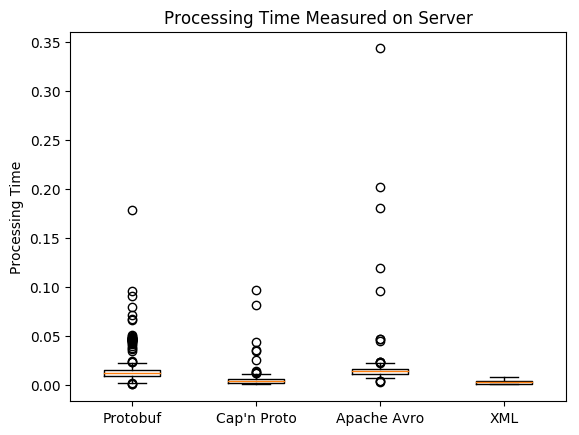
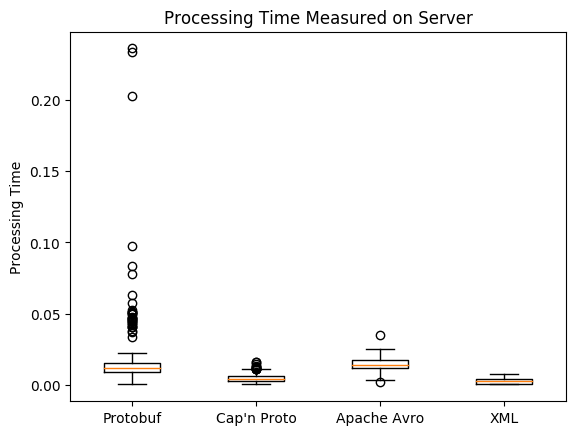
drawings and changes

diff --git a/createGraphs.py b/createGraphs.py
@@ -55,35 +55,35 @@ def draw_scatter_message_length(x1, x2, x3, x4, y, name, title, x_label, y_label
 
 	fig1, ax1 = plt.subplots()
 
-	ax1.scatter(x_protobuf, y_protobuf, c='g')
-	ax1.scatter(x_capnp, y_capnp, color='b')
-	ax1.scatter(x_avro, y_avro, color='r')
-	ax1.scatter(x_xml, y_xml, color='k')
+	proto = ax1.scatter(x_protobuf, y_protobuf, c='g')
+	capnp = ax1.scatter(x_capnp, y_capnp, color='b')
+	avro = ax1.scatter(x_avro, y_avro, color='r')
+	xml = ax1.scatter(x_xml, y_xml, color='k')
 
 	#plt.legend((y_protobuf, y_capnp, y_avro, y_xml), ('Protobuf', 'Cap\'n Proto', 'Apache Avro', 'XML'), scatterpoints=1)
 
-	ax1.ylabel(y_label)
-	ax1.xlabel(x_label)
-	ax1.legend(*scatter.legend_elements())
+	ax1.set_ylabel(y_label)
+	ax1.set_xlabel(x_label)
+	ax1.legend((proto, capnp, avro, xml), ('Protobuf', 'Cap\'n Proto', 'Apache Avro', 'XML'))
 	title = title + ' Measured on ' + str(machine).capitalize()
 	if int(print_to_file) == 1:
 		title = title + ' (Data Written to Disk)'
-	ax1.title(str(title))
+	ax1.set_title(str(title))
 	#plt.xticklabels(['Protobuf', 'Cap\'n Proto', 'Apache Avro', 'XML'])
 
 	fig1.savefig('eval/scatter_'+str(title)+'_'+str(machine)+'_'+str(number_of_people)+'_'+str(number_of_messages)+'_'+str(print_to_file), bbox_inches='tight')
 
-def draw_scatter(x, y, name, title, x_label, y_label):
+def draw_scatter(x, scale_x, y, scale_y, name, title, x_label, y_label):
 	
-	x_protobuf = np.asarray(x[0])
-	x_capnp = np.asarray(x[1])
-	x_avro = np.asarray(x[2])
-	x_xml = np.asarray(x[3])
+	x_protobuf = np.asarray(x[0])-scale_x[0]
+	x_capnp = np.asarray(x[1])-scale_x[1]
+	x_avro = np.asarray(x[2])-scale_x[1]
+	x_xml = np.asarray(x[3])-scale_x[1]
 
-	y_protobuf = np.asarray(y[0])
-	y_capnp = np.asarray(y[1])
-	y_avro = np.asarray(y[2])
-	y_xml = np.asarray(y[3])
+	y_protobuf = np.asarray(y[0])-scale_y[0]
+	y_capnp = np.asarray(y[1])-scale_y[1]
+	y_avro = np.asarray(y[2])-scale_y[2]
+	y_xml = np.asarray(y[3])-scale_y[3]
 
 	#print('len prot ', len(x_protobuf), 'len y ', len(y_protobuf))
 
@@ -94,25 +94,25 @@ def draw_scatter(x, y, name, title, x_label, y_label):
 
 	fig2, ax2 = plt.subplots()
 
-	ax2.scatter(x_protobuf, y_protobuf, c='g')
-	ax2.scatter(x_capnp, y_capnp, color='b')
-	ax2.scatter(x_avro, y_avro, color='r')
-	ax2.scatter(x_xml, y_xml, color='k')
+	proto = ax2.scatter(x_protobuf, y_protobuf, c='g')
+	capnp = ax2.scatter(x_capnp, y_capnp, color='b')
+	avro = ax2.scatter(x_avro, y_avro, color='r')
+	xml = ax2.scatter(x_xml, y_xml, color='k')
 
 	#plt.legend((y_protobuf, y_capnp, y_avro, y_xml), ('Protobuf', 'Cap\'n Proto', 'Apache Avro', 'XML'), scatterpoints=1)
 
-	ax2.ylabel(y_label)
-	ax2.xlabel(x_label)
-	ax2.legend(*scatter.legend_elements())
+	ax2.set_ylabel(y_label)
+	ax2.set_xlabel(x_label)
+	ax2.legend((proto, capnp, avro, xml), ('Protobuf', 'Cap\'n Proto', 'Apache Avro', 'XML'))
 	title = title + ' Measured on ' + str(machine).capitalize()
 	if int(print_to_file) == 1:
 		title = title + ' (Data Written to Disk)'
-	ax2.title(str(title))
+	ax2.set_title(str(title))
 	#plt.xticklabels(['Protobuf', 'Cap\'n Proto', 'Apache Avro', 'XML'])
 
 	fig2.savefig('eval/scatter_'+str(title)+'_'+str(machine)+'_'+str(number_of_people)+'_'+str(number_of_messages)+'_'+str(print_to_file), bbox_inches='tight')
 
-def draw_scatter_disk(x, start_value_x, bytes y, start_value_y, name, title, x_label, y_label):
+def draw_scatter_disk(x, start_value_x, y, start_value_y, name, title, x_label, y_label):
 	
 	x_protobuf = np.asarray(x[0])-start_value_x[0]
 	x_capnp = np.asarray(x[1])-start_value_x[1]
@@ -124,10 +124,10 @@ def draw_scatter_disk(x, start_value_x, bytes y, start_value_y, name, title, x_l
 	y_avro = np.asarray(y[2])-start_value_y[2]
 	y_xml = np.asarray(y[3])-start_value_y[3]
 
-	print('len prot ', len(x_protobuf), 'len y ', len(y_protobuf))
-	print('len prot ', len(x_xml), 'len y ', len(y_xml))
-	print(y_xml)
-	print(x_xml)
+	#print('len prot ', len(x_protobuf), 'len y ', len(y_protobuf))
+	#print('len prot ', len(x_xml), 'len y ', len(y_xml))
+	#print(y_xml)
+	#print(x_xml)
 
 	machine = name.split('_')[0]
 	number_of_people = name.split('_')[2]
@@ -136,30 +136,31 @@ def draw_scatter_disk(x, start_value_x, bytes y, start_value_y, name, title, x_l
 
 	fig3, ax3 = plt.subplots()
 
-	ax3.scatter(x_protobuf, y_protobuf, c='g')
-	ax3.scatter(x_capnp, y_capnp, color='b')
-	ax3.scatter(x_avro, y_avro, color='r')
-	ax3.scatter(x_xml, y_xml, color='k')
+	proto = ax3.scatter(x_protobuf, y_protobuf, c='g')
+	capnp = ax3.scatter(x_capnp, y_capnp, color='b')
+	avro = ax3.scatter(x_avro, y_avro, color='r')
+	xml = ax3.scatter(x_xml, y_xml, color='k')
 
 	#plt.legend((y_protobuf, y_capnp, y_avro, y_xml), ('Protobuf', 'Cap\'n Proto', 'Apache Avro', 'XML'), scatterpoints=1)
 
-	ax3.ylabel(y_label)
-	ax3.xlabel(x_label)
-	ax3.legend(*scatter.legend_elements())
+	ax3.set_ylabel(y_label)
+	ax3.set_xlabel(x_label)
+	ax3.legend((proto, capnp, avro, xml), ('Protobuf', 'Cap\'n Proto', 'Apache Avro', 'XML'))
 	title = title + ' Measured on ' + str(machine).capitalize()
 	if int(print_to_file) == 1:
-		title = title + ' (Data Written to Disk)'
-	ax3.title(str(title))
+		filetitle = title +'_disk'
+		#title = title + ' (Data Written to Disk)'
+	ax3.set_title(str(title))
 	#plt.xticklabels(['Protobuf', 'Cap\'n Proto', 'Apache Avro', 'XML'])
 
-	fig3.savefig('eval/scatter_'+str(title)+'_'+str(machine)+'_'+str(number_of_people)+'_'+str(number_of_messages)+'_'+str(print_to_file), bbox_inches='tight')
+	fig3.savefig('eval/scatter_'+str(filetitle)+'_'+str(machine)+'_'+str(number_of_people)+'_'+str(number_of_messages)+'_'+str(print_to_file)+'.png', bbox_inches='tight')
 
-draw_scatter_mul_y(x, y1, y2, y3, y4, name, title, x_label, y_label)
+def draw_scatter_mul_y(x,discount, y1, y2, y3, y4, name, title, x_label, y_label):
 	
-	x_protobuf = np.asarray(x[0])
-	x_capnp = np.asarray(x[1])
-	x_avro = np.asarray(x[2])
-	x_xml = np.asarray(x[3])
+	x_protobuf = np.asarray(x[0])-discount[0]
+	x_capnp = np.asarray(x[1])-discount[1]
+	x_avro = np.asarray(x[2])-discount[2]
+	x_xml = np.asarray(x[3])-discount[3]
 
 	y_protobuf = np.asarray(y1)
 	y_capnp = np.asarray(y2)
@@ -173,20 +174,20 @@ draw_scatter_mul_y(x, y1, y2, y3, y4, name, title, x_label, y_label)
 
 	fig4, ax4 = plt.subplots()
 
-	ax4.scatter(x_protobuf, y_protobuf, c='g')
-	ax4.scatter(x_capnp, y_capnp, color='b')
-	ax4.scatter(x_avro, y_avro, color='r')
-	ax4.scatter(x_xml, y_xml, color='k')
+	proto = ax4.scatter(x_protobuf, y_protobuf, c='g')
+	capnp = ax4.scatter(x_capnp, y_capnp, color='b')
+	avro = ax4.scatter(x_avro, y_avro, color='r')
+	xml = ax4.scatter(x_xml, y_xml, color='k')
 
 	#plt.legend((y_protobuf, y_capnp, y_avro, y_xml), ('Protobuf', 'Cap\'n Proto', 'Apache Avro', 'XML'), scatterpoints=1)
 
-	ax4.ylabel(y_label)
-	ax4.xlabel(x_label)
-	ax4.legend(*scatter.legend_elements())
+	ax4.set_ylabel(y_label)
+	ax4.set_xlabel(x_label)
+	ax4.legend((proto, capnp, avro, xml), ('Protobuf', 'Cap\'n Proto', 'Apache Avro', 'XML'))
 	title = title + ' Measured on ' + str(machine).capitalize()
-	if int(print_to_file) == 1:
-		title = title + ' (Data Written to Disk)'
-	ax4.title(str(title))
+	#if int(print_to_file) == 1:
+		#title = title + ' (Data Written to Disk)'
+	ax4.set_title(str(title))
 	#plt.xticklabels(['Protobuf', 'Cap\'n Proto', 'Apache Avro', 'XML'])
 
 	fig4.savefig('eval/scatter_'+str(title)+'_'+str(machine)+'_'+str(number_of_people)+'_'+str(number_of_messages)+'_'+str(print_to_file), bbox_inches='tight')
@@ -224,24 +225,27 @@ def draw_line_chart(x, y, name, title, x_label, y_label):
 	#ax.set_xticklabels(['Protobuf', 'Cap\'n Proto', 'Apache Avro', 'XML'])
 	fig.savefig('eval/line_'+str(title)+'_'+str(machine)+'_'+str(number_of_people)+'_'+str(number_of_messages)+'_'+str(print_to_file), bbox_inches='tight')
 '''
-def draw_boxplot(values, start_value_bytes_rec, name, title):
+def draw_boxplot_xml(values, start_value_bytes_rec, name, title):
 
 	#print(values)
 	data_to_plot = []
 	val = []
-	for i in range(0, len(values):
+	for i in range(0, len(values)):
 		val.append(values[i])
+		print(values[i])
 		if (i + 1)%10 == 0 :
+			print(val)
 			data_to_plot.append(val)
 			val = []
-	
+	'''
 	protobuf = np.asarray(values[0])-start_value_bytes_rec[0]
 	capnp = np.asarray(values[1])-start_value_bytes_rec[0]
 	avro = np.asarray(values[2])-start_value_bytes_rec[0]
 	xml = np.asarray(values[3])-start_value_bytes_rec[0]
 
 	data_to_plot = [protobuf, capnp, avro, xml]
-
+	'''
+	print(data_to_plot)
 	machine = name.split('_')[0]
 	number_of_people = name.split('_')[2]
 	number_of_messages = name.split('_')[3]
@@ -251,12 +255,13 @@ def draw_boxplot(values, start_value_bytes_rec, name, title):
 
 	#ax = fig.add_subplot(111)
 	ax5.boxplot(data_to_plot)
-	ax5.ylabel(title)
+	ax5.set_ylabel(title)
 	title = title + ' Measured on ' + str(machine).capitalize()
 	if print_to_file == 1:
 		title = title + ' (data written to disk)'
-	ax5.title(str(title))
-	ax5.xticks([1,2,3,4,5,6,7,8,9,10,11,12,13,14,15,16,17,18,19,20,21,22,23,24,25],['224', '410', '596', '782', '968','1154','1340','1526','1712','1898','2084','2270','2456','2642','2828','3014','3200','3386','3572','3758','3944','4130','4316','4502','4688'])
+	ax5.set_title(str(title))
+	ax5.set_xticks([1,2,3,4,5,6,7,8,9,10,11,12,13,14,15,16,17,18,19,20,21,22,23,24,25])
+	ax5.set_xticklabels(['224', '410', '596', '782', '968','1154','1340','1526','1712','1898','2084','2270','2456','2642','2828','3014','3200','3386','3572','3758','3944','4130','4316','4502','4688'])
 	fig5.savefig('eval/box_'+str(title)+'_'+str(machine)+'_'+str(number_of_people)+'_'+str(number_of_messages)+'_'+str(print_to_file), bbox_inches='tight')
 
 
@@ -281,12 +286,13 @@ def draw_boxplot(values, start_value_bytes_rec, name, title):
 
 	#ax = fig.add_subplot(111)
 	ax6.boxplot(data_to_plot)
-	ax6.ylabel(title)
+	ax6.set_ylabel(title)
 	title = title + ' Measured on ' + str(machine).capitalize()
-	if print_to_file == 1:
+	if int(print_to_file) == 1:
 		title = title + ' (data written to disk)'
-	ax6.title(str(title))
-	ax6.xticks([1,2,3,4],['Protobuf', 'Cap\'n Proto', 'Apache Avro', 'XML'])
+	ax6.set_title(str(title))
+	ax6.set_xticks([1,2,3,4])
+	ax6.set_xticklabels(['Protobuf', 'Cap\'n Proto', 'Apache Avro', 'XML'])
 	fig6.savefig('eval/box_'+str(title)+'_'+str(machine)+'_'+str(number_of_people)+'_'+str(number_of_messages)+'_'+str(print_to_file), bbox_inches='tight')
 
 
@@ -322,7 +328,7 @@ def main():
 
 	for path in paths:
 		identify_format = path.split('/')[1].split('_')[1]
-		print(identify_format)
+		#print(identify_format)
 
 		with open(str(path), 'r') as f:
 			Lines = [line.rstrip('\n') for line in f]
@@ -423,7 +429,7 @@ def main():
 				for value in line.split(':')[1].lstrip('[').rstrip(']').split(','):
 					if len(value) != 0:
 						values.append(float(value))
-						print(value)
+						#print(value)
 				bytes_sent.append(values)
 			elif line.split(':')[0] == 'packets_sent':
 				values = []
@@ -469,20 +475,20 @@ def main():
 		draw_scatter_message_length(message_length_proto, message_length_capnp, message_length_avro, message_length_xml, memory, paths[0].split('/')[1], 'Memory Utilization', 'Message Size', 'Memory Utilization in %')
 
 		if int(print_to_file) == 1:
-			draw_scatter_disk(write_time, [0,0,0,0], write_bytes, start_value_disk, paths[0].split('/')[1], 'Bytes Written', 'Time to Write to Disk in ms', 'Data Written in Bytes')
-			draw_scatter_disk(write_bytes, start_value_disk, bytes_recv, start_value_bytes_rec, paths[0].split('/')[1], 'Data Received vs. Data Written', 'Data Received vs. Data Written', 'Data Received in Bytes')
-			draw_scatter(write_time, [0,0,0,0], bytes_recv, start_value_bytes_rec, paths[0].split('/')[1], 'Time to Write Bytes', 'Time to Write Bytes in ms', 'Bytes Received')
-			draw_scatter_mul_y(write_time, message_length_proto, message_length_capnp, message_length_avro, message_length_xml, paths[0].split('/')[1], 'Time to Write Message Length', 'Time to Write Message in ms', 'Message Length in Bytes')
+			draw_scatter_disk(write_time, [write_time[0][0],write_time[1][0],write_time[2][0],write_time[3][0]], write_bytes, start_value_disk, paths[0].split('/')[1], 'Bytes Written', 'Time to Write to Disk in ms', 'Data Written in Bytes')
+			draw_scatter_disk(write_bytes, start_value_disk, bytes_recv, start_value_bytes_rec, paths[0].split('/')[1], 'Data Received vs. Data Writtento Disk', 'Data Written to Disk in Bytes', 'Data Received in Bytes')
+			draw_scatter_disk(write_time, [write_time[0][0],write_time[1][0],write_time[2][0],write_time[3][0]], bytes_recv, start_value_bytes_rec, paths[0].split('/')[1], 'Time to Write Received Bytes', 'Time to Write Bytes in ms', 'Bytes Received')
+			draw_scatter_mul_y(write_time, [write_time[0][0],write_time[1][0],write_time[2][0],write_time[3][0]], message_length_proto, message_length_capnp, message_length_avro, message_length_xml, paths[0].split('/')[1], 'Time to Write Message Length', 'Time to Write Message in ms', 'Message Length in Bytes')
 
 			#draw_scatter(read_time, read_bytes, paths[0].split('/')[1], 'Bytes Read', 'Time to Read data in ms', 'Data Read in Bytes')
 			#draw_scatter(read_time, bytes_recv, paths[0].split('/')[1], 'Bytes Read', 'Time to Write to disk in ms', 'Data Received in Bytes')
 
 		draw_scatter(read_time, [0,0,0,0], bytes_recv, start_value_bytes_rec, paths[0].split('/')[1], 'Time to Read Bytes', 'Time to Read Bytes in ms', 'Bytes Received')
-		draw_scatter_mul_y(read_time, message_length_proto, message_length_capnp, message_length_avro, message_length_xml, paths[0].split('/')[1], 'Time to Read Message Length', 'Time to Read Message in ms', 'Message Length in Bytes')
+		draw_scatter_mul_y(read_time, [0,0,0,0], message_length_proto, message_length_capnp, message_length_avro, message_length_xml, paths[0].split('/')[1], 'Time to Read Message Length', 'Time to Read Message in ms', 'Message Length in Bytes')
 
 
 		draw_boxplot_xml(message_length_xml, start_value_bytes_rec, paths[0].split('/')[1], 'Deviations in Message Sizes')
-		draw_boxplot(bytes_recv, start_value_bytes_rec, paths[0].split('/')[1], 'Bytes Received')
+		#draw_boxplot(bytes_recv, start_value_bytes_rec, paths[0].split('/')[1], 'Bytes Received')
 		draw_boxplot(times, [0,0,0,0], paths[0].split('/')[1], 'Processing Time')
 
 	elif machine == 'client':
